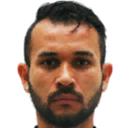
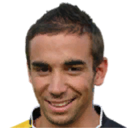
AST: Fixed player names trailing zerops

diff --git a/scripts/dataframes.py b/scripts/dataframes.py
@@ -23,6 +23,12 @@ playernames_df = pd.read_csv(playernames, sep='\t', encoding='utf-16le')
 teamplayerlinks_df = pd.read_csv(teamplayerlinks, sep='\t', encoding='utf-16le')
 languagestrings_df = pd.read_csv(languagestrings, sep='\t', encoding='utf-16le')
 
+
+# playernames_df = playernames_df.applymap(lambda x: x.strip() if isinstance(x, str) else x)
+# # Strip spaces from the 'Name' column
+# playernames_df['commentaryid'] = playernames_df['commentaryid'].apply(lambda x: str(int(x)) if not pd.isna(x) else x)
+# playernames_df['nameid'] = playernames_df['nameid'].apply(lambda x: str(int(x)) if not pd.isna(x) else x)
+
 #FIFA 16 tables
 fifa16_defaultteamdata = os.path.join(os.path.dirname(__file__), "..", "db", "fifa-16", "defaultteamdata.txt")
 fifa16_defaul_teamsheets = os.path.join(os.path.dirname(__file__), "..", "db", "fifa-16", "default_teamsheets.txt")
